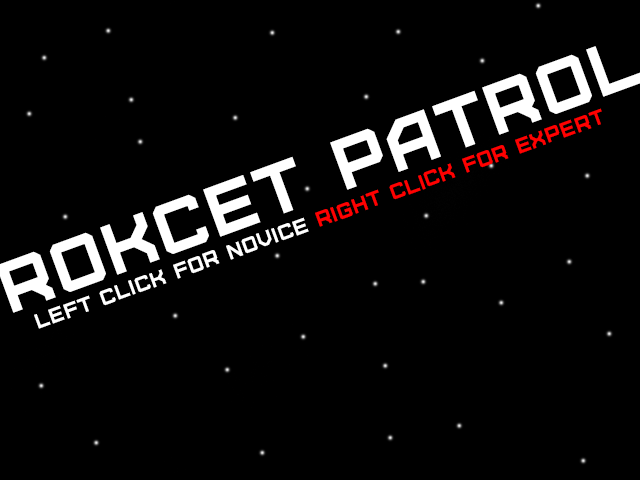
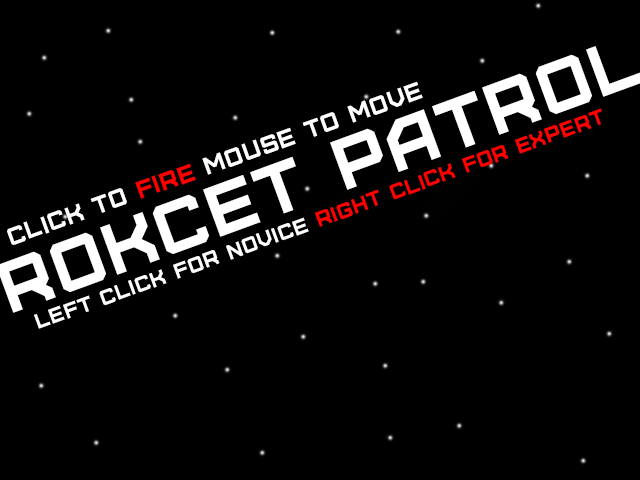
Mouse controls and new Menu

Changed region(s): [[0.0, 0.1562, 0.6562, 0.5312]]

diff --git a/src/scenes/Play.js b/src/scenes/Play.js
@@ -22,10 +22,7 @@ class Play extends Phaser.Scene {
         this.ship02 = new Spaceship(this, game.config.width + borderUISize*3, borderUISize*5 + borderPadding*2, 'spaceship', 0, 20, Phaser.Math.Between(-1, 1)).setOrigin(0,0);
         this.ship03 = new Spaceship(this, game.config.width, borderUISize*6 + borderPadding*4, 'spaceship', 0, 10, Phaser.Math.Between(-1, 1)).setOrigin(0,0);
 
-        keyF = this.input.keyboard.addKey(Phaser.Input.Keyboard.KeyCodes.F);
-        keyR = this.input.keyboard.addKey(Phaser.Input.Keyboard.KeyCodes.R);
-        keyLEFT = this.input.keyboard.addKey(Phaser.Input.Keyboard.KeyCodes.LEFT);
-        keyRIGHT = this.input.keyboard.addKey(Phaser.Input.Keyboard.KeyCodes.RIGHT);
+        mouse = this.input.activePointer;
 
         this.anims.create({
             key: 'explode',
@@ -82,17 +79,17 @@ class Play extends Phaser.Scene {
     
     update(time, delta) {
         if(time-this.previousTime > 1000 && !this.gameOver){
-            console.log("time = " + time + " previousTime = " + this.previousTime);
+            //console.log("time = " + time + " previousTime = " + this.previousTime);
             this.currentTimeLeft = this.currentTimeLeft - 1;
-            console.log("Current time left = " + this.currentTimeLeft);
+            //console.log("Current time left = " + this.currentTimeLeft);
             this.timerRight.text = "Timer: " + this.currentTimeLeft;
             this.previousTime = time;
         }
-        if(this.gameOver && Phaser.Input.Keyboard.JustDown(keyR)) {
+        if(this.gameOver && mouse.leftButtonDown()) {
             game.settings.spaceshipSpeed /= 1.5;
             this.scene.restart();
         }
-        if(this.gameOver && Phaser.Input.Keyboard.JustDown(keyLEFT)) {
+        if(this.gameOver && mouse.rightButtonDown()) {
             this.scene.start("menuScene");
         }
         this.starfield.tilePositionX -= 4;  // update tile sprite
@@ -118,7 +115,7 @@ class Play extends Phaser.Scene {
 
        if(this.currentTimeLeft <= 0){
             this.add.text(game.config.width/2, game.config.height/2, 'GAME OVER', scoreConfig).setOrigin(0.5);
-            this.add.text(game.config.width/2, game.config.height/2 + 64, 'Press (R) to Restart or ← to Menu', scoreConfig).setOrigin(0.5);
+            this.add.text(game.config.width/2, game.config.height/2 + 64, 'Left Click to Restart or Right Click to Menu', scoreConfig).setOrigin(0.5);
             this.gameOver = true;
         }
     }

diff --git a/src/scenes/Menu.js b/src/scenes/Menu.js
@@ -11,6 +11,7 @@ class Menu extends Phaser.Scene {
         this.load.audio('explosion2', './assets/Explosion 2.wav');
         this.load.audio('explosion3', './assets/Explosion 3.wav');
         this.load.audio('explosion4', './assets/Explosion 4.wav');
+        this.load.image('menu', './assets/Menu.png');
     }
 
     create() {
@@ -26,17 +27,16 @@ class Menu extends Phaser.Scene {
             },
             fixedWidth: 0
         }
-        this.add.text(game.config.width/2, game.config.height/2 - borderUISize - borderPadding, 'ROCKET PATROL', menuConfig).setOrigin(0.5);
-        this.add.text(game.config.width/2, game.config.height/2, 'Use ←→ arrows to move & (F) to fire', menuConfig).setOrigin(0.5);
-        menuConfig.backgroundColor = '#00FF00';
+        
         menuConfig.color = '#000';
-        this.add.text(game.config.width/2, game.config.height/2 + borderUISize + borderPadding, 'Press ← for Novice or → for Expert', menuConfig).setOrigin(0.5);
-        keyLEFT = this.input.keyboard.addKey(Phaser.Input.Keyboard.KeyCodes.LEFT);
-        keyRIGHT = this.input.keyboard.addKey(Phaser.Input.Keyboard.KeyCodes.RIGHT);
+        this.add.image(0,0,'menu').setOrigin(0,0);
+       mouse = this.input.activePointer;
+        //keyLEFT = this.input.keyboard.addKey(Phaser.Input.Keyboard.KeyCodes.LEFT);
+        //keyRIGHT = this.input.keyboard.addKey(Phaser.Input.Keyboard.KeyCodes.RIGHT);
     }
 
     update() {
-        if (Phaser.Input.Keyboard.JustDown(keyLEFT)) {
+        if (mouse.leftButtonDown()) {
           game.settings = {
             spaceshipSpeed: 3,
             gameTimer: 60000,
@@ -45,7 +45,7 @@ class Menu extends Phaser.Scene {
           this.sound.play('sfx_select');
           this.scene.start("playScene");    
         }
-        if (Phaser.Input.Keyboard.JustDown(keyRIGHT)) {
+        if (mouse.rightButtonDown()) {
           game.settings = {
             spaceshipSpeed: 4,
             gameTimer: 45000, 

diff --git a/src/prefabs/Rocket.js b/src/prefabs/Rocket.js
@@ -9,14 +9,22 @@ class Rocket extends Phaser.GameObjects.Sprite {
     }
 
     update() {
+        //console.log("mouseX = " + mouse.position.x/1 + " rocketX = " + this.x);
         if(!this.isFiring) {
-            if(keyLEFT.isDown && this.x >= borderUISize + this.width) {
-                this.x -= this.moveSpeed;
-            } else if (keyRIGHT.isDown && this.x <= game.config.width - borderUISize - this.width) {
-                this.x += this.moveSpeed;
-            }
+                if(mouse.position.x < this.x  && this.x >= borderUISize + this.width) {
+                    this.x -= this.moveSpeed;
+                    if(this.x < mouse.position.x){
+                        this.x = mouse.position.x;
+                    }
+                } else if (mouse.position.x >= this.x && this.x <= game.config.width - borderUISize - this.width) {
+                    this.x += this.moveSpeed;
+                    if(this.x > mouse.position.x){
+                        this.x = mouse.position.x;
+                    }
+                }
         }
-        if(Phaser.Input.Keyboard.JustDown(keyF) && !this.isFiring) {
+        
+        if((mouse.leftButtonDown() || mouse.rightButtonDown()) && !this.isFiring) {
             this.isFiring = true;
             this.sfxRocket.play();
             console.log("Fired");

diff --git a/src/main.js b/src/main.js
@@ -4,15 +4,18 @@ let config = {
     height: 480,
     scene: [ Menu, Play ]
 }
-//Points breakdown
+//Points breakdown 80 Points
 //Randomize each spaceship's movement direction at the start of each play (5)
 //Implement the speed increase that happens after 30 seconds in the original game (5)
 //Create 4 new explosion SFX and randomize which one plays on impact (10)
 //Display the time remaining (in seconds) on the screen (10)
+//Create a new title screen (e.g., new artwork, typography, layout) (10)
 //Implement a new timing/scoring mechanism that adds time to the clock for successful hits (20)
+//Implement mouse control for player movement and mouse click to fire (20)
+
 
 let scoreConfig;
 let game = new Phaser.Game(config);
 let borderUISize = game.config.height / 15;
 let borderPadding = borderUISize / 3;
-let keyF, keyR, keyLEFT, keyRIGHT;
+let mouse;
